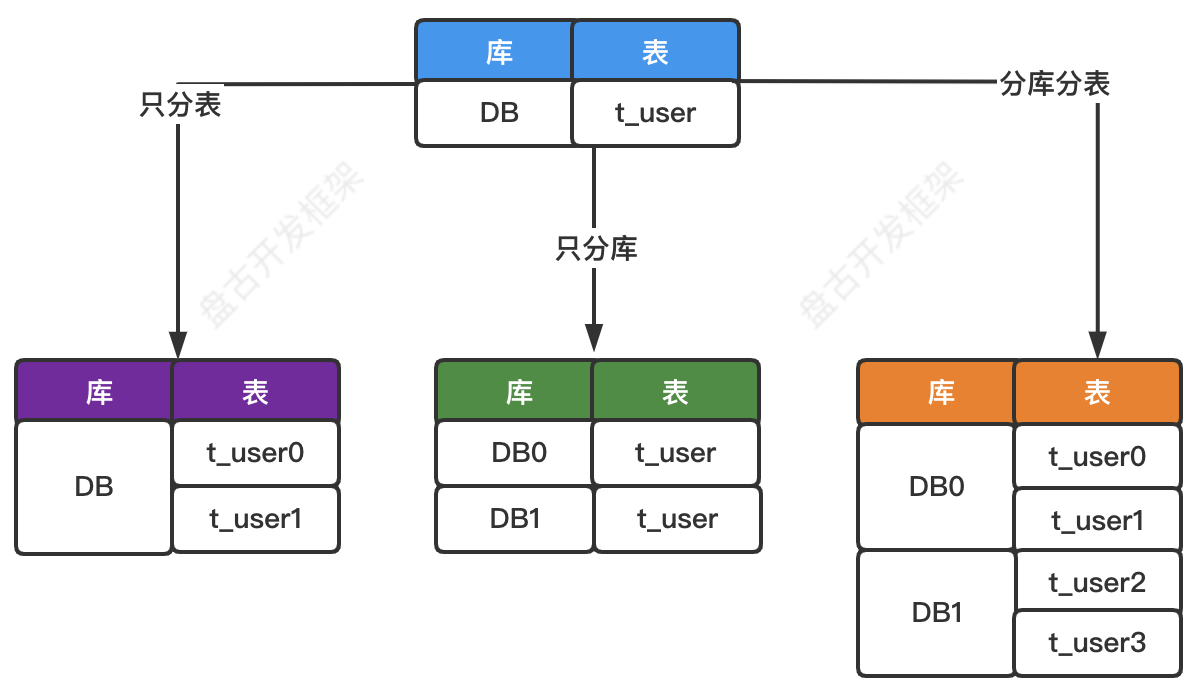
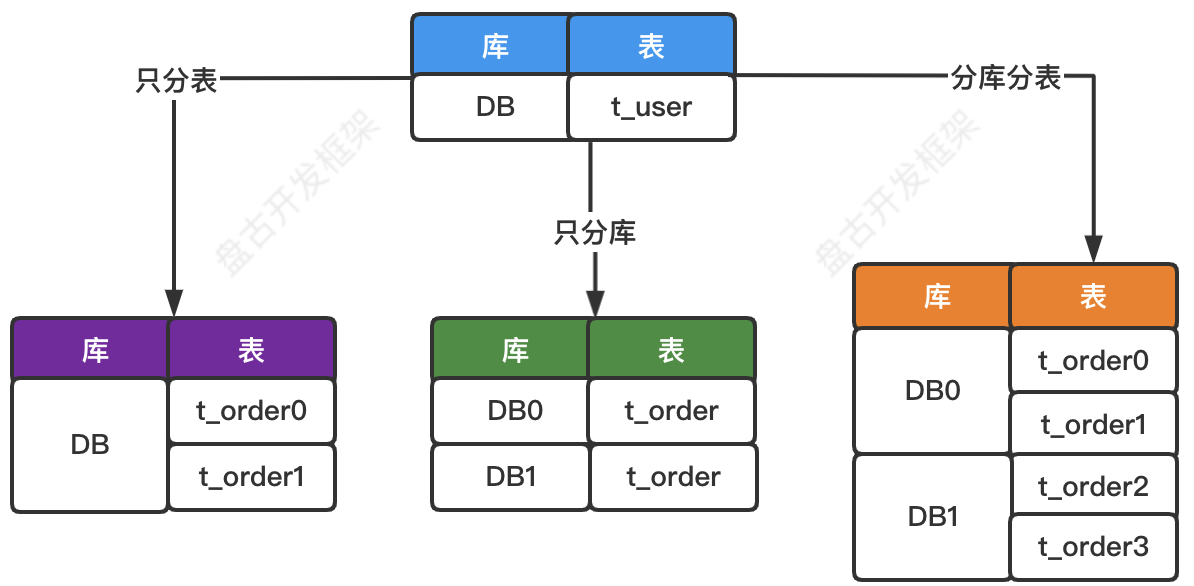
开发数据分片范例程序：pangu-examples-shardingsphere-sharding，编写数据分片文档

diff --git a/pangu-website/docs/advanced-guide/数据治理之数据分片.md b/pangu-website/docs/advanced-guide/数据治理之数据分片.md
@@ -30,7 +30,7 @@ import TabItem from '@theme/TabItem';
 #### 水平分片
 水平分片又称为横向拆分。相对于垂直分片，它不再将数据根据业务逻辑分类，而是通过某个字段（或某几个字段），根据某种规则将数据分散至多个库或多个表中。水平分片从理论上突破了单机数据量处理的瓶颈，并且扩展相对自由，是数据分片的标准解决方案。水平分片从具体实现上又可以分为3种：**只分表**、**只分库**、**分库分表**。如下图所示。
 
-<img width="650"
+<img width="800"
   src={require('/resources/doc/29-pangu-framework-sharding.png').default}
   alt="数据治理之数据分片" />
 
@@ -65,81 +65,47 @@ import TabItem from '@theme/TabItem';
 > 提示：SNOWFLAKE 算法主键能保证递增，但不能保证数字的连续性。如果需要递增且连续的分布式主键，需要自己实现。
 - **强制分片路由**：基于 Hint 机制指定了强制分片路由的 SQL 将会无视原有的分片逻辑，直接路由至指定的真实数据节点。
 
-## 读写分离实现原理
-实现读写分离大致有 3 种方案。如下图所示。
+## 数据分片实现原理
+实现数据分片大致有 2 种方案。如下图所示。
 <img width="800"
-  src={require('/resources/doc/27-pangu-framework-readwrite-splitting.png').default}
-  alt="虚拟业务场景设计" />
+  src={require('/resources/doc/30-pangu-framework-sharding.png').default}
+  alt="数据分片实现原理" />
 
 - **数据库代理模式（服务端代理）**  
-在数据库和应用系统之间独立部署一个数据库代理中间件，所有的 SQL 请求先发送到这个代理，由它完成 SQL 解析、SQL 路由等必要操作。在这种模式下，路由规则都配置到代理上，读写分离的逻辑对开发人员是透明的。
+在数据库和应用系统之间独立部署一个数据库代理中间件，所有的 SQL 请求先发送到这个代理，由它完成 SQL 解析、SQL改写、SQL 路由、结果集聚合等必要操作。在这种模式下，路由规则都配置到代理上，数据分片的逻辑对开发人员是透明的。
 
 - **数据源代理模式（客户端代理）**  
-通过在应用端引入组件包，代理应用普通数据源。在这种模式下，路由规则配置到应用侧，所有 SQL 请求都通过代理数据源完成 SQL 解析、SQL 路由等必要操作。
-
-- ~~**ORM 框架代理模式（客户端代理）**~~  
-通过 ORM 框架（Hibernate、Mybatis 等）的插件、拦截器机制实现。这只能算是特定环境下的一种实现方法，不能作为一套完整的标准化解决方案。故在此不做更多描述。
-
-### 技术方案指标对比
+通过在应用端引入组件包，代理应用普通数据源。在这种模式下，路由规则配置到应用侧，所有 SQL 请求都通过代理数据源完成 SQL 解析、SQL改写、SQL 路由、结果集聚合等必要操作。
  
-|<div style={{width:'120px'}}>技术方案</div>| 可选组件 | <div style={{width:'150px'}}>优点</div> | <div style={{width:'200px'}}>缺点</div>
+|<div style={{width:'120px'}}>实现方式</div>| 可选组件 | <div style={{width:'150px'}}>优点</div> | <div style={{width:'200px'}}>缺点</div>
 --- | --- | --- | ---
 **数据库代理模式** | ShardingSphere-Proxy <br></br> MyCat | 多语言支持<br></br>独立部署（升级简单）<br></br>对开发完全透明 | 独立部署（增加不稳定因素）<br></br> 运维成本高<br></br>性能损耗高
 **数据源代理模式 :kiss: ** | ShardingSphere-JDBC | 集成简单、轻松驾驭<br></br>性能较好 | 嵌入 JAR（升级麻烦）<br></br>日常数据维护麻烦
-**~~ORM 框架代理模式~~** | 自研/硬编码 | 硬撸一时爽 | 事后火葬场
 
 :::caution 
-盘古开发框架使用 ShardingSphere-JDBC 组件，通过数据源代理的方式实现读写分离功能。
+盘古开发框架使用 ShardingSphere-JDBC 组件，通过数据源代理的方式实现数据分片功能。
 :::
 
-## 编程实战
-
-本实例以一主二从的数据库主从集群为例，来演示如何基于盘古框架开发一个读写分离且支持读负载均衡的范例程序。
+## 编程实战一：只分表
 
 ### 初始化数据库环境
-> 基于一个用户信息表来演示。为了方便查看测试效果，我们分别把三个库中的用户姓名字段的值打上不同的标记。
 
-<Tabs>
-<TabItem value="master" label="主库 DDL">
+数据库表结构如下图所示。
+<img width="200"
+  src={require('/resources/doc/31-pangu-framework-sharding.png').default}
+  alt="数据分片实现-只分表" />
 
-``` jsx
-主库 DB：pangu-examples
-
-CREATE TABLE `user` (
-  `id` bigint(20) NOT NULL AUTO_INCREMENT COMMENT '流水号',
-  `name` varchar(255) NOT NULL COMMENT '姓名',
-  `birthday` date DEFAULT NULL COMMENT '生日',
-  `age` int(11) DEFAULT NULL COMMENT '年龄',
-  `user_type` varchar(255) DEFAULT NULL COMMENT '用户类型',
-  `gmt_create` datetime DEFAULT CURRENT_TIMESTAMP COMMENT '创建时间',
-  `gmt_update` datetime DEFAULT CURRENT_TIMESTAMP ON UPDATE CURRENT_TIMESTAMP COMMENT '更新时间',
-  PRIMARY KEY (`id`) USING BTREE
-) ENGINE=InnoDB AUTO_INCREMENT=20 DEFAULT CHARSET=utf8mb4 COMMENT='用户信息表';
-
-INSERT INTO `user` (`id`, `name`, `birthday`, `age`, `user_type`) VALUES (1, 'XC（master）', NULL, 18, '1');
-```
-</TabItem>
-<TabItem value="slave-0" label="从库1 DDL">
-
+请根据如下逻辑表结构创建真实表 t_order0 和 t_order1。
 ```jsx
-从库1 DB：pangu-examples-0
-
-CREATE TABLE...（建表脚本同主库）
-
-INSERT INTO `user` (`id`, `name`, `birthday`, `age`, `user_type`) VALUES (1, 'XC（slave-0）', NULL, 18, '1');
+create table t_order
+(
+    order_id bigint      not null
+        primary key,
+    user_id  int         not null,
+    status   varchar(50) null
+)
+comment '逻辑表:订单表';
 ```
-</TabItem>
-<TabItem value="account" label="从库2 DDL">
-
-```jsx
-从库2 DB：pangu-examples-1
-
-CREATE TABLE...（建表脚本同主库）
-
-INSERT INTO `user` (`id`, `name`, `birthday`, `age`, `user_type`) VALUES (1, 'XC（slave-1）', NULL, 18, '1');
-```
-</TabItem>
-</Tabs>
 
 ### 安装相关盘古模块
 

diff --git a/pangu-website/docs/advanced-guide/数据治理之读写分离.md b/pangu-website/docs/advanced-guide/数据治理之读写分离.md
@@ -55,10 +55,8 @@ import TabItem from '@theme/TabItem';
 
 - ~~**ORM 框架代理模式（客户端代理）**~~  
 通过 ORM 框架（Hibernate、Mybatis 等）的插件、拦截器机制实现。这只能算是特定环境下的一种实现方法，不能作为一套完整的标准化解决方案。故在此不做更多描述。
-
-### 技术方案指标对比
  
-|<div style={{width:'120px'}}>技术方案</div>| 可选组件 | <div style={{width:'150px'}}>优点</div> | <div style={{width:'200px'}}>缺点</div>
+|<div style={{width:'120px'}}>实现方式</div>| 可选组件 | <div style={{width:'150px'}}>优点</div> | <div style={{width:'200px'}}>缺点</div>
 --- | --- | --- | ---
 **数据库代理模式** | ShardingSphere-Proxy <br></br> MyCat | 多语言支持<br></br>独立部署（升级简单）<br></br>对开发完全透明 | 独立部署（增加不稳定因素）<br></br> 运维成本高<br></br>性能损耗高
 **数据源代理模式 :kiss: ** | ShardingSphere-JDBC | 集成简单、轻松驾驭<br></br>性能较好 | 嵌入 JAR（升级麻烦）<br></br>日常数据维护麻烦
